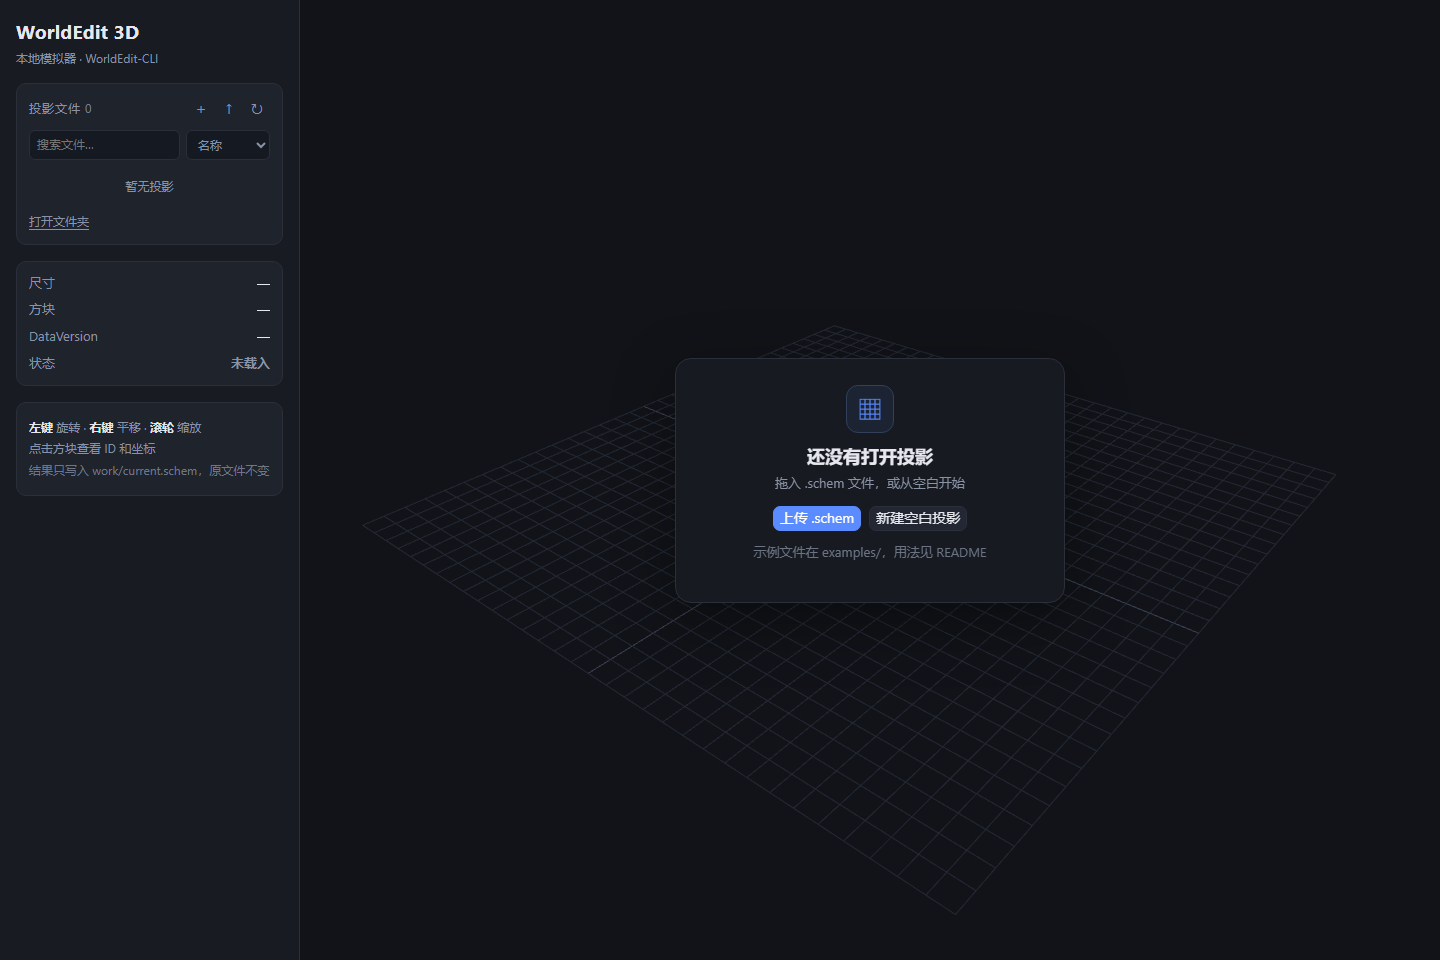
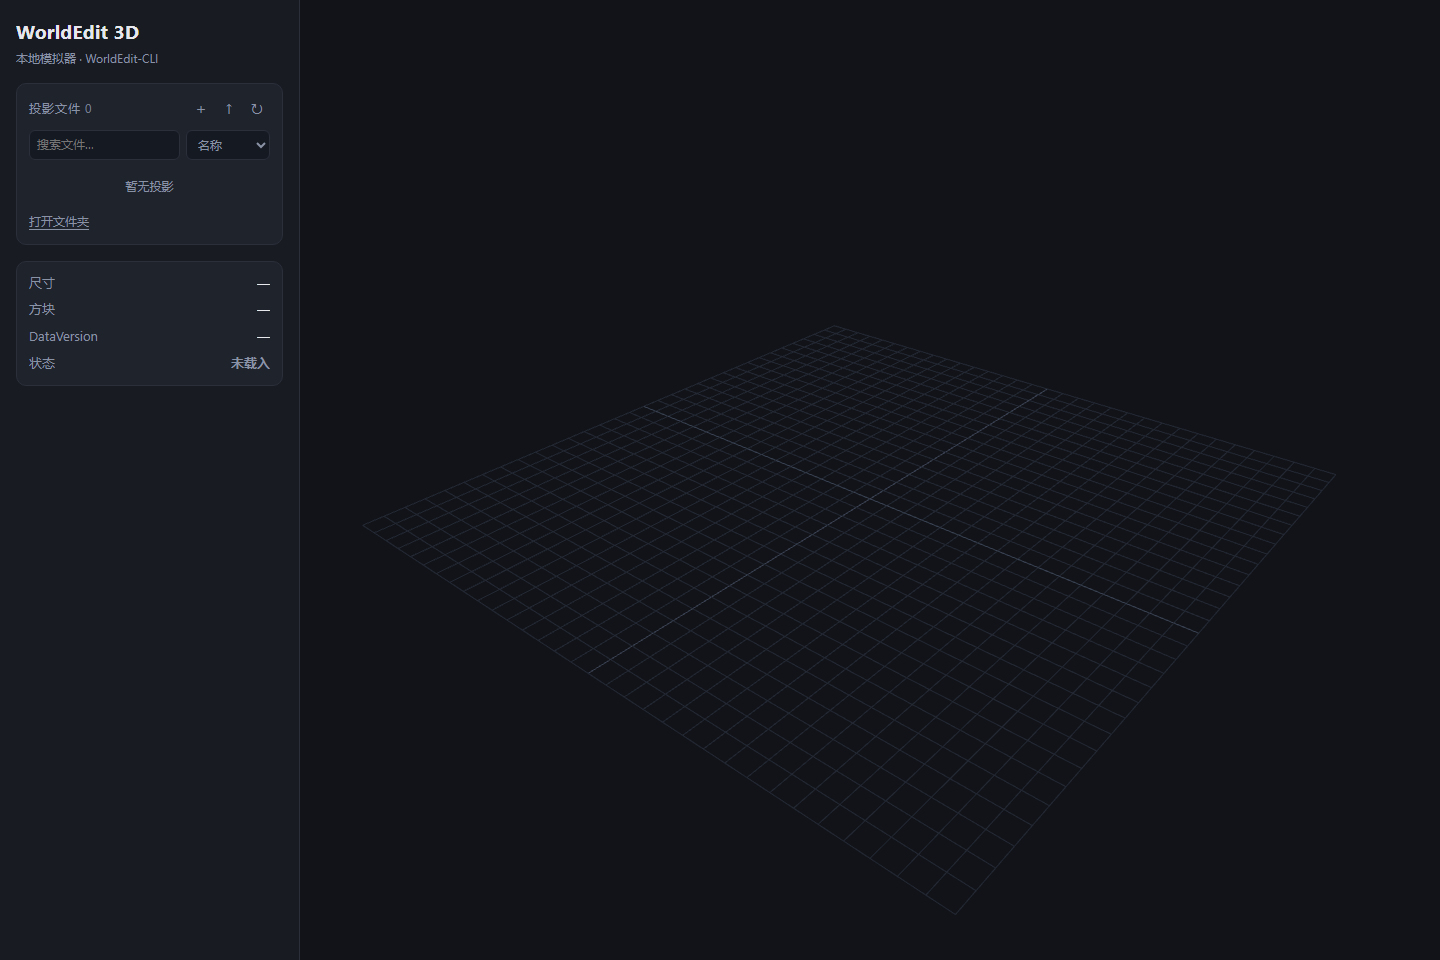
Remove empty-state dialog and in-app guidance
The empty page now shows only the 3D grid and sidebar. Removed the welcome card, keyboard help panel, command placeholder, and related styles; instructions live in README. User schematics are now ignored by git.

Changed region(s): [[0.5312, 0.4062, 0.6875, 0.5938], [0.0, 0.4375, 0.1875, 0.5]]

diff --git a/web/static/index.html b/web/static/index.html
@@ -51,31 +51,14 @@
         <div class="stat"><span>状态</span><b id="statStatus">未载入</b></div>
       </section>
 
-      <section class="panel help">
-        <p><b>左键</b> 旋转 · <b>右键</b> 平移 · <b>滚轮</b> 缩放</p>
-        <p>点击方块查看 ID 和坐标</p>
-        <p class="muted">结果只写入 work/current.schem，原文件不变</p>
-      </section>
     </aside>
 
     <main id="main">
       <canvas id="view"></canvas>
 
-      <div id="emptyState" class="empty-state">
-        <div class="empty-card">
-          <div class="empty-icon">▦</div>
-          <h2>还没有打开投影</h2>
-          <p>拖入 .schem 文件，或从空白开始</p>
-          <div class="empty-actions">
-            <button id="emptyUploadBtn" class="primary">上传 .schem</button>
-            <button id="emptyNewBtn" class="ghost">新建空白投影</button>
-          </div>
-          <p class="muted">示例文件在 examples/，用法见 README</p>
-        </div>
-      </div>
 
       <div id="hud" class="hidden">
-        <span id="hudInfo">拖动鼠标查看</span>
+        <span id="hudInfo"></span>
         <button id="fitBtn" class="ghost small">视角复位</button>
       </div>
 
@@ -93,7 +76,7 @@
           </div>
         </div>
         <div class="console-body">
-          <textarea id="commands" spellcheck="false" placeholder="//pos1 0,0,0&#10;//pos2 15,15,15&#10;//set minecraft:stone"></textarea>
+          <textarea id="commands" spellcheck="false"></textarea>
           <pre id="log"></pre>
         </div>
       </section>
@@ -108,3 +91,4 @@
   <script type="module" src="./js/main.js"></script>
 </body>
 </html>
+

diff --git a/web/static/js/ui.js b/web/static/js/ui.js
@@ -10,9 +10,6 @@ export const els = {
   uploadBtn: document.querySelector('#uploadBtn'),
   refreshBtn: document.querySelector('#refreshBtn'),
   revealBtn: document.querySelector('#revealBtn'),
-  emptyState: document.querySelector('#emptyState'),
-  emptyUploadBtn: document.querySelector('#emptyUploadBtn'),
-  emptyNewBtn: document.querySelector('#emptyNewBtn'),
   hud: document.querySelector('#hud'),
   hudInfo: document.querySelector('#hudInfo'),
   fitBtn: document.querySelector('#fitBtn'),
@@ -84,7 +81,6 @@ export function setStats(state) {
 }
 
 export function showEmpty() {
-  els.emptyState.classList.remove('hidden');
   els.hud.classList.add('hidden');
   els.console.classList.add('hidden');
   els.statSize.textContent = '—';
@@ -92,13 +88,12 @@ export function showEmpty() {
   els.statVersion.textContent = '—';
   els.statStatus.textContent = '未载入';
   els.statStatus.style.color = 'var(--muted)';
-  els.hudInfo.textContent = '拖动鼠标查看';
+  els.hudInfo.textContent = '';
   els.log.textContent = '';
   document.title = 'WorldEdit 3D 模拟器';
 }
 
 export function showLoaded(state) {
-  els.emptyState.classList.add('hidden');
   els.hud.classList.remove('hidden');
   els.console.classList.remove('hidden');
   setStats(state);
@@ -117,3 +112,4 @@ export function setActions({ hasFile, dirty, busy }) {
   els.exampleBtn.disabled = disabled;
   els.saveBtn.disabled = disabled || !dirty;
 }
+

diff --git a/web/static/style.css b/web/static/style.css
@@ -238,10 +238,6 @@ html, body {
   text-align: right;
 }
 
-.help p { margin: 4px 0; font-size: 12px; color: var(--muted); }
-.help b { color: var(--text); }
-.muted { opacity: .75; }
-
 #main { position: relative; min-width: 0; overflow: hidden; }
 
 #view {
@@ -249,58 +245,6 @@ html, body {
   width: 100%;
   height: 100%;
   outline: none;
-}
-
-.empty-state {
-  position: absolute;
-  inset: 0;
-  display: flex;
-  align-items: center;
-  justify-content: center;
-  pointer-events: none;
-  padding: 24px;
-}
-
-.empty-card {
-  pointer-events: auto;
-  width: min(390px, 92%);
-  background: rgba(24, 27, 34, .88);
-  border: 1px solid var(--line);
-  border-radius: 16px;
-  box-shadow: 0 18px 60px rgba(0, 0, 0, .35);
-  backdrop-filter: blur(10px);
-  padding: 26px 30px;
-  text-align: center;
-}
-
-.empty-icon {
-  width: 48px;
-  height: 48px;
-  margin: 0 auto 10px;
-  border-radius: 12px;
-  border: 1px solid #33405c;
-  background: #1c2333;
-  color: var(--accent);
-  font-size: 26px;
-  line-height: 46px;
-}
-
-.empty-card h2 {
-  margin: 0 0 4px;
-  font-size: 18px;
-}
-
-.empty-card p {
-  margin: 0 0 14px;
-  color: var(--muted);
-  font-size: 13px;
-}
-
-.empty-actions {
-  display: flex;
-  justify-content: center;
-  gap: 8px;
-  margin-bottom: 12px;
 }
 
 #hud {

diff --git a/web/static/js/main.js b/web/static/js/main.js
@@ -313,9 +313,7 @@ function fillExample() {
 
 function bindEvents() {
   ui.els.newBtn.addEventListener('click', createNew);
-  ui.els.emptyNewBtn.addEventListener('click', createNew);
   ui.els.uploadBtn.addEventListener('click', () => ui.els.fileInput.click());
-  ui.els.emptyUploadBtn.addEventListener('click', () => ui.els.fileInput.click());
   ui.els.fileInput.addEventListener('change', () => {
     const [file] = ui.els.fileInput.files;
     ui.els.fileInput.value = '';

diff --git a/README.md b/README.md
@@ -1,7 +1,7 @@
 # WorldEdit 3D 模拟器
 
 不启动 Minecraft，在浏览器里对 `.schem` 投影执行 WorldEdit 命令并实时查看 3D 结果。
-打开页面默认为空，示例和文件操作都在界面内完成。
+打开页面默认为空；示例和操作说明见本文档，界面只保留必要控件。
 
 ![空界面](web/preview-empty.png)
 
@@ -42,7 +42,7 @@ python tools\inspect_schem.py schematics\demo.schem
 
 | 操作 | 说明 |
 |---|---|
-| 空状态 | 3D 网格 + 欢迎卡片，可上传 `.schem` 或新建空白投影 |
+| 空状态 | 只显示 3D 网格；用侧栏的 `＋` / `↑` 新建或上传 |
 | 左键拖动 / 右键拖动 / 滚轮 | 旋转 / 平移 / 缩放 |
 | 点击方块 | 查看方块 ID 和坐标 |
 | 命令框 + `Ctrl+Enter` | 执行 WorldEdit 命令并刷新 3D |
